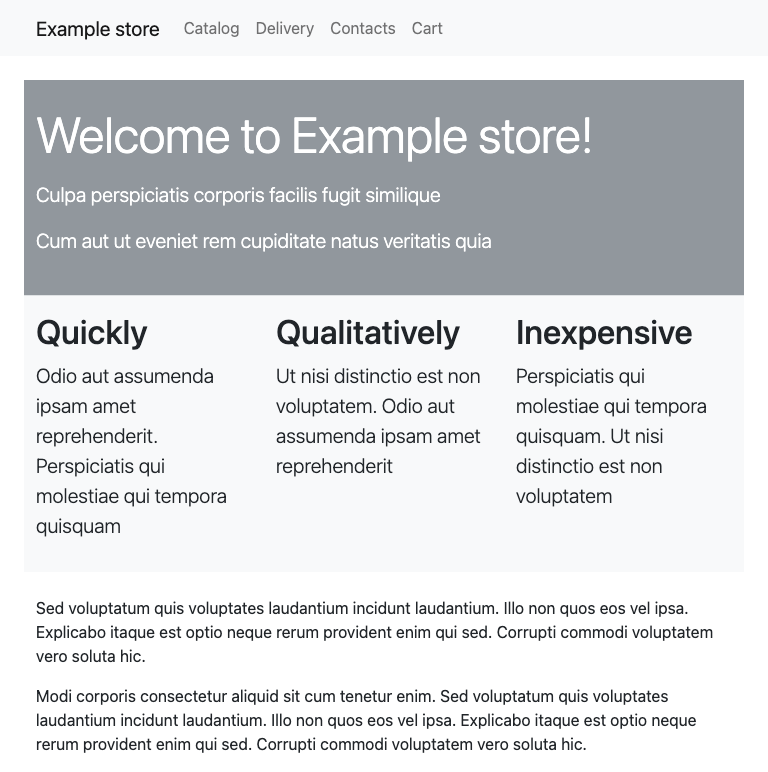
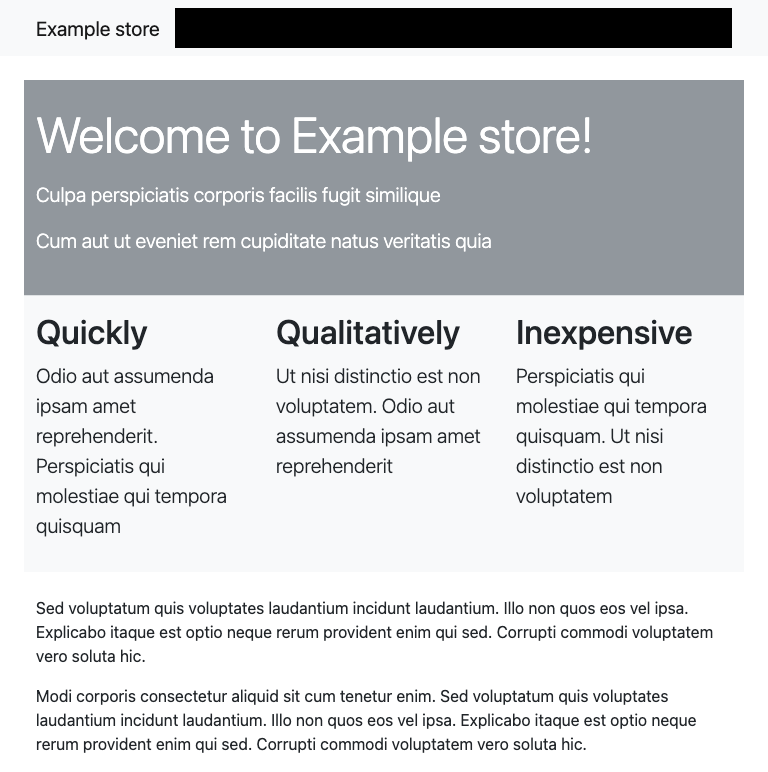
adds e2e tests for catalog, updates screenshots

Changed region(s): [[0.2188, 0.0, 0.9688, 0.0622]]

diff --git a/test/hermione/catalog.hermione.js b/test/hermione/catalog.hermione.js
@@ -1,0 +1,80 @@
+const { assert } = require("chai");
+
+let bugId = "";
+if (process.env.BUG_ID !== undefined) {
+  bugId = process.env.BUG_ID;
+}
+
+function getUrl(route, productId = "") {
+  return `/hw/store${route}/${productId}` + (bugId && `?bug_id=${bugId}`);
+}
+
+describe("Тестирование каталога", () => {
+  async function clickAddToCartButton(browser, productId) {
+    await browser.url(getUrl("/catalog", productId));
+    const productContainer = await browser.$(".Product");
+
+    const addToCartButton = await productContainer.$(
+      ".ProductDetails-AddToCart"
+    );
+    await addToCartButton.click();
+  }
+
+  async function getProductCount(browser, productId) {
+    await browser.url(getUrl("/cart"));
+    const productRow = await browser.$(`tr[data-testid="${productId}"]`);
+    return (await productRow.$(".Cart-Count")).getText();
+  }
+
+  async function getCartTable(browser) {
+    await browser.refresh();
+    await browser.url(getUrl("/cart"));
+    return await browser.$(".Cart-Table");
+  }
+
+  function testAddingProductToCart(productId) {
+    it(`Если товар ${productId} уже добавлен в корзину, повторное нажатие кнопки "добавить в корзину" должно увеличивать его количество`, async ({
+      browser,
+    }) => {
+      await browser.setWindowSize(1024, 1000);
+
+      for (let i = 1; i <= 3; i++) {
+        await clickAddToCartButton(browser, productId);
+        assert.equal(
+          await getProductCount(browser, productId),
+          i,
+          `Продукт с id=${productId} должен быть в корзине`
+        );
+      }
+    });
+  }
+
+  function testCartPageReload() {
+    it(`Содержимое корзины должно сохраняться между перезагрузками страницы`, async ({
+      browser,
+    }) => {
+      await browser.setWindowSize(1024, 1000);
+
+      const tables = [];
+
+      tables.push(await getCartTable(browser));
+
+      for (let i = 1; i < 5; i++) {
+        tables.push(await getCartTable(browser));
+
+        assert.equal(
+          tables[i - 1].outerHTML,
+          tables[i].outerHTML,
+          `Содержимое корзины должно сохраняться между перезагрузками страницы`
+        );
+      }
+    });
+  }
+
+  const idsToTest = [0, 1, 2];
+  for (const id of idsToTest) {
+    testAddingProductToCart(id.toString());
+  }
+
+  testCartPageReload();
+});

diff --git a/test/hermione/pages.hermione.js b/test/hermione/pages.hermione.js
@@ -15,7 +15,9 @@ describe("Тестирование страниц", () => {
       await browser.setWindowSize(1024, 1000);
       await browser.url(getUrl(page === "home" ? "" : page));
       await browser.$(".Application");
-      await browser.assertView(`plain-static-${page}`, ".Application");
+      await browser.assertView(`plain-static-${page}`, ".Application", {
+        ignoreElements: [".Application-Menu"],
+      });
     });
   }
 

diff --git a/test/hermione/general.hermione.js b/test/hermione/general.hermione.js
@@ -17,7 +17,9 @@ describe("Тестирование общих требований: адапти
       await browser.setWindowSize(width, 1000);
       await browser.url(getUrl());
       await browser.$(".Application");
-      await browser.assertView(`plain-w${width}px`, ".Application");
+      await browser.assertView(`plain-w${width}px`, ".Application", {
+        ignoreElements: [".Application-Menu"],
+      });
     });
   }
 
